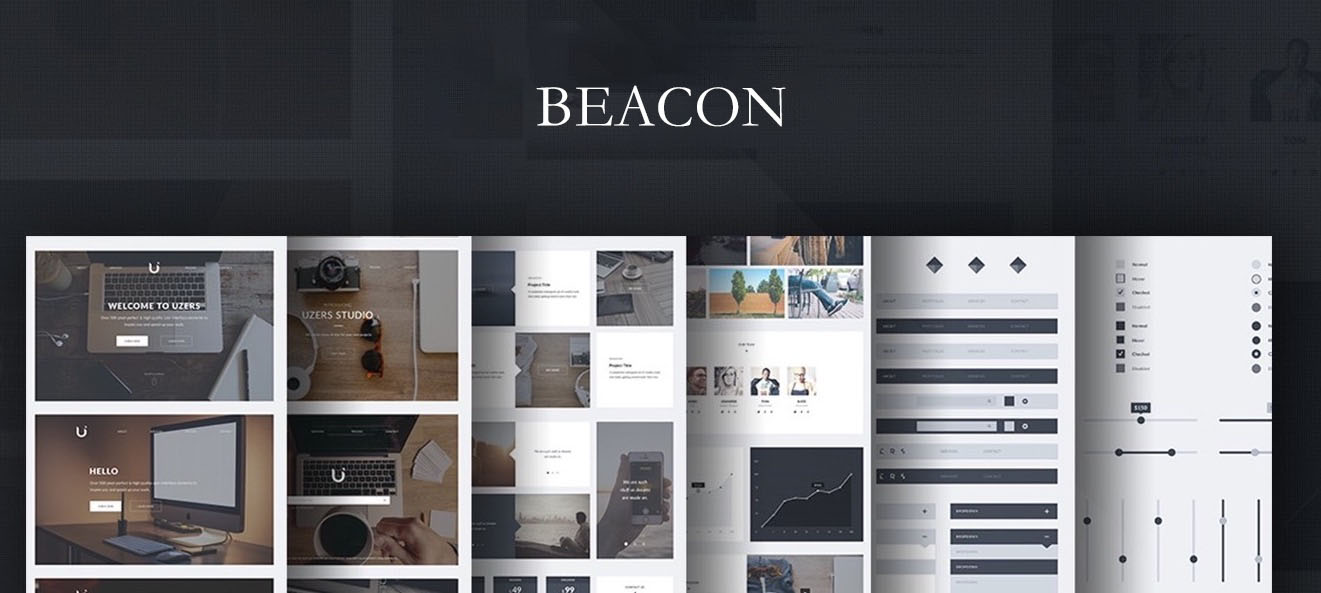
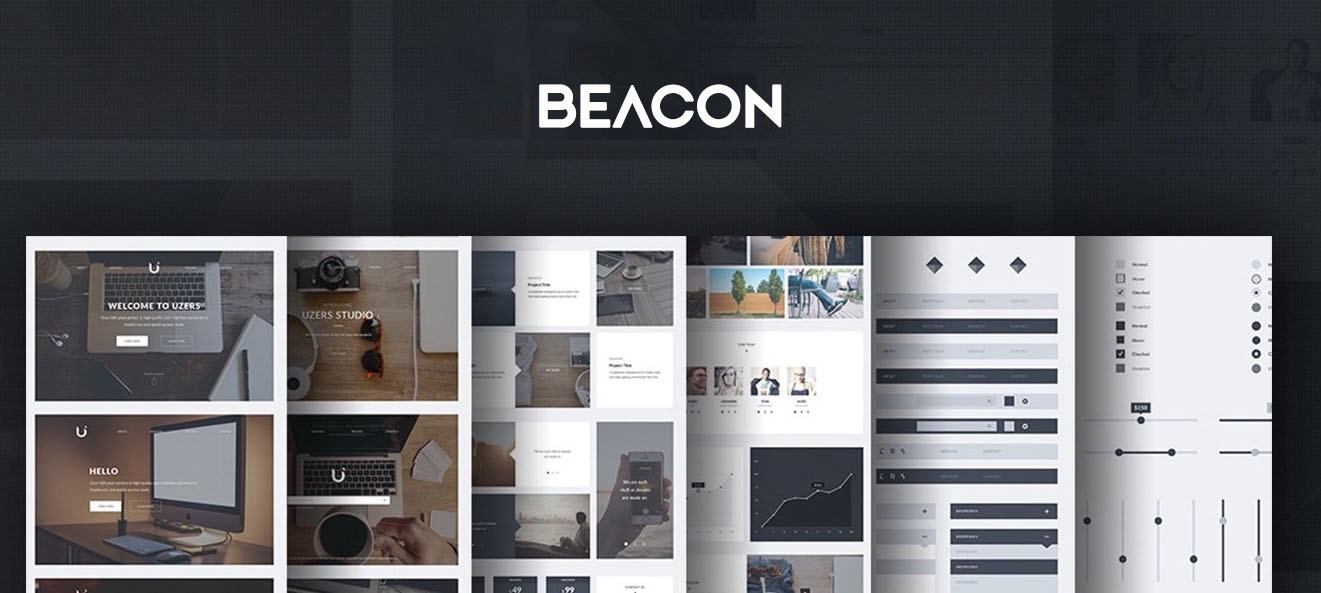
1
1

Changed region(s): [[0.4035, 0.1214, 0.5897, 0.2125]]

diff --git a/js/lang.js b/js/lang.js
@@ -43,7 +43,7 @@ const langCN = {
     //us
     'us_info_1': 'BEACON株式会社是日资公司。总公司位于东京都千代田区锻冶町1-3-1 VORT神田8楼，威海子公司位于山东省威海市经济开发区18-1香港路智慧大厦10F。',
     //'us_info_2': '2018年成立的我公司主要经营不动产、留学事业、IT业、酒店事业、海外（日本）医疗事业5个事业，拥有丰富的经验，从各行各业整合各种资源，能够为客户提供周到的服务。',
-    'us_info_2': '依托创始团队在计算机领域的多年经验以及在日本的丰富资源，BEACON在日本不动产、酒店与民宿托管运营、赴日留学、中日双领域的IT开发、赴日医疗美容及日本移民等领域均有深度耕耘。迄今为止，已经为上千组高净值客户提供了定制级的优质服务。',
+    'us_info_2': '',
 
 
     //study
@@ -190,8 +190,8 @@ const langCN = {
     'res_mag_t_item7': '专业的预算管理',
     'res_mag_c_item7': '本公司都会为投资者提供专业的预算管理服务，比如与房屋有关的的各种收支项目（比如水、电、煤气等）。除此之外，本公司也提供操作指示、缴纳通知、代理支付等服务。',
 
-    'res_content_sell': '自1968年以来，日本已经在全球GDP前三的位置上保持了50多年。同时，作为亚洲第一个发达国家，日本经济与社会的长期稳定，孕育出不动产租售比全球领先的东京、大阪以及名古屋都市圈。BEACON有日本不动产顾问团队，长期跟踪研究日本的土地、金融、人口、产业、城市再发展，定期研判不动产走势，从而前瞻性地分析出适合投资的不动产板块与类型。每一位海外客户在购置日本的不动产后，无需亲自参与管理，只需委托BEACON的托管团队即可轻松获得数倍于别国的房屋租金。同时，由于日本的土地性质为终身私有，客户亦可以获得较为可观的土地涨幅。',
-    'res_content_hire': '除自社物件之外，BEACON亦跟日本各大不动产开发及管理企业有深度合作。<br/ > 无论是为包含留学生在内的日本本土客户提供一整栋学生公寓，还是单身公寓、高级塔楼、一户建、商业用物件、物流及仓储用房的租赁，BEACON均可精准匹配需求。',
+    'res_content_sell': '',
+    'res_content_hire': '',
     'res_content_move': '治安指数良好、犯罪率极低、食品安全、空气质量佳、人均GDP近4万美元，迄今为止，日本仍是全亚洲人均收入最高的国家之一。移民日本，享受日本的教育与社会福利，是很多中产与新贵的人生进阶选择。',
     'res_content_move_more': 'BEACON移民团队已为数百个家庭定制移居日本之方案。从赴日工作，到子女入学；从赴日后的居住与生活，到整体的家庭资产配置......在BEACON的IT大数据算法与多位经济学专家顾问的私人定制式智囊协力下，移民日本坦途已为您铺就，全新生活亟待您的起航。',
     'res_content_hotel': '日本的服务业享誉全球，除投资类及租赁类不动产的托管之外，BEACON亦有酒店及民宿托管团队。',
@@ -209,9 +209,9 @@ const langCN = {
 
 
     //detail text
-    'detail_it': '依托经验丰富的IT开发团队，BEACON为客户提供完美的推广方式，使客户在任何经济形势下都有开拓生意的新可能。',
-    'detail_it_content': '在互联网、大数据、云计算等科技不断发展的背景下，依托经验丰富的IT开发团队，通过手机APP、微信/LINE小程序、网站开发制作等方式，以及对市场、对用户、对产品、对企业价值链乃至对整个商业生态的进行重新审视，BEACON为客户提供完美的推广方式，使客户在任何经济形势下都有开拓生意的新可能。',
-    'detail_hotel': '日本的服务业享誉全球，BEACON亦有酒店及民宿托管团队',
+    'detail_it': '',
+    'detail_it_content': '',
+    'detail_hotel': '',
     'detail_medic': '日本的医学与制药科技全球领先，BEACON与多家日本资深综合整形外科合作。<br /> 牵手经日本厚生省和美容外科协会认证、拥有超过20年经验美容整形外科的医师，为您定制高品质的综合抗衰老方案。',
     'detail_medic_shot': '医学顾问翻译团队,全方位的管家式顾问翻译支持。',
     'detail_medic_1_title': '赴日美容',
@@ -278,7 +278,7 @@ const langJP = {
 
 
     //us
-    'us_info_1': 'BEACON株式会社は日中合弁会社です。本社は東京都千代田区鍛冶町1-3-1 VORT神田8階にあり、威海支社は山東省威海市経済開発区18-1香港路智慧ビル10Fにあります。',
+    'us_info_1': 'BEACON株式会社は不動産会社です。本社は東京都千代田区鍛冶町1-3-1 VORT神田8階にあり、威海支社は山東省威海市経済開発区18-1香港路智慧ビル10Fにあります。',
     //'us_info_2': '2018年に設立された弊社は、不動産業、留学事業、IT業、ホテル事業、海外（日本）医療事業の5つの事業をおもに運営し、豊富な経験を持って各業界から多様なリソースを統合して、お客様に行き届いたサービスを提供しています。',
 
 
@@ -431,19 +431,19 @@ const langJP = {
     'medicine_business': '医療ツーリズム、介護業界へのビジネス調査',
 
     //detail text
-    'detail_it': '依托经验丰富的IT开发团队，BEACON为客户提供完美的推广方式，使客户在任何经济形势下都有开拓生意的新可能。',
-    'detail_it_content': '在互联网、大数据、云计算等科技不断发展的背景下，依托经验丰富的IT开发团队，通过手机APP、微信/LINE小程序、网站开发制作等方式，以及对市场、对用户、对产品、对企业价值链乃至对整个商业生态的进行重新审视，BEACON为客户提供完美的推广方式，使客户在任何经济形势下都有开拓生意的新可能。',
-    'detail_hotel': '日本的服务业享誉全球，BEACON亦有酒店及民宿托管团队',
+    'detail_it': '',
+    'detail_it_content': '',
+    'detail_hotel': '',
 
     'study_abroad_list1': '1868年的日本明治维新，开启并引领了整个东方的现代化进程。迄今为止，在科技制造、现代医学、设计与艺术、时尚与美食、新材料及精细化工等领域，日本一直领先世界。',
     'study_abroad_list2': '日本有28位诺贝尔奖得主，数量居亚洲第一。世界大学排名TOP500中，日本有16所。鲁迅、李大钊、周恩来、孙中山等先辈均曾赴日留学，并在其后做出了影响整个东方文明的成就。',
     'study_abroad_list3': '日本的教育质量领先，学费却相对低廉，任何中国的中产阶层均可以轻松承担。BEACON在日本与中国设立的留学部门，位赴日留学的学弟学妹们提供全流程保姆级服务，担学子潜心求学之依靠，令家长无后顾之忧。 <br /> 日本留学，我们更专业',
 
-    'us_info_2': '依托创始团队在计算机领域的多年经验以及在日本的丰富资源，BEACON在日本不动产、酒店与民宿托管运营、赴日留学、中日双领域的IT开发、赴日医疗美容及日本移民等领域均有深度耕耘。迄今为止，已经为上千组高净值客户提供了定制级的优质服务。',
+    'us_info_2': '',
 
 
-    'res_content_sell': '自1968年以来，日本已经在全球GDP前三的位置上保持了50多年。同时，作为亚洲第一个发达国家，日本经济与社会的长期稳定，孕育出不动产租售比全球领先的东京、大阪以及名古屋都市圈。BEACON有日本不动产顾问团队，长期跟踪研究日本的土地、金融、人口、产业、城市再发展，定期研判不动产走势，从而前瞻性地分析出适合投资的不动产板块与类型。每一位海外客户在购置日本的不动产后，无需亲自参与管理，只需委托BEACON的托管团队即可轻松获得数倍于别国的房屋租金。同时，由于日本的土地性质为终身私有，客户亦可以获得较为可观的土地涨幅。',
-    'res_content_hire': '除自社物件之外，BEACON亦跟日本各大不动产开发及管理企业有深度合作。<br/ > 无论是为包含留学生在内的日本本土客户提供一整栋学生公寓，还是单身公寓、高级塔楼、一户建、商业用物件、物流及仓储用房的租赁，BEACON均可精准匹配需求。',
+    'res_content_sell': '',
+    'res_content_hire': '',
     'res_content_move': '治安指数良好、犯罪率极低、食品安全、空气质量佳、人均GDP近4万美元，迄今为止，日本仍是全亚洲人均收入最高的国家之一。移民日本，享受日本的教育与社会福利，是很多中产与新贵的人生进阶选择。',
     'res_content_move_more': 'BEACON移民团队已为数百个家庭定制移居日本之方案。从赴日工作，到子女入学；从赴日后的居住与生活，到整体的家庭资产配置......在BEACON的IT大数据算法与多位经济学专家顾问的私人定制式智囊协力下，移民日本坦途已为您铺就，全新生活亟待您的起航。',
     'res_content_hotel': '日本的服务业享誉全球，除投资类及租赁类不动产的托管之外，BEACON亦有酒店及民宿托管团队。',

diff --git a/html/res.html b/html/res.html
@@ -53,7 +53,7 @@
                     <h1 lang="index_trade"></h1>
                 </div>
                 <div class="property-process">
-                    <img src="../images/img/res_process_0.png">
+                    <!-- <img src="../images/img/res_process_0.png"> -->
                 </div>
                 <div class="property-subject subject-one">
                     <h4 lang="res_content_sell" class="res-content"></h4>
@@ -99,7 +99,7 @@
         </div>
 
         <!-- 第四个屏幕 -->
-        <div class="section section-forth">
+        <!-- <div class="section section-forth">
             <div class="PROPERTY-forth PROPERTY">
                 <div class="property-title">
                     <h1 lang="index_migrate"></h1>
@@ -125,7 +125,7 @@
                     </div>
                 </div>
             </div>
-        </div>
+        </div> -->
 
 
         <div class="section section-root">
@@ -144,16 +144,19 @@
                         <p lang="res_rootlist_4"></p>
                     </div>
                     <div class="resRootList">
+                        <p lang="addr_japan_komagome" class="list_title "></p>
+                        <p lang="addr_japan_addr_komagome"></p>
+                        <a href="" class="tel_qiyu">
+                            <p lang="res_rootlist_3"></p>
+                        </a>
+                        <p lang="res_rootlist_4"></p>
+                    </div>
+                    <div class="resRootList">
                         <p lang="res_subslist" class="list_title "></p>
                         <p lang="res_subslist_1"></p>
                         <a href="" class="tel_qiyu">
                             <p lang="res_subslist_2"></p>
                         </a>
-                        <p lang="res_subslist_3"></p>
-                    </div>
-                    <div class="resRootList">
-                        <p lang="res_2subslist" class="list_title "></p>
-                        <p lang="res_2subslist_1"></p>
                         <!-- <a href="" class="tel_qiyu"><p lang="res_2subslist_2"></p></a> -->
                         <p lang="res_2subslist_3"></p>
                     </div>

diff --git a/html/hotel.html b/html/hotel.html
@@ -71,11 +71,11 @@
             <div class="slide" id="slide7">
                 <h1 lang="hotel_name"></h1>
             </div>
-            <div class="hotelboard boardbgB"></div>
+            <!-- <div class="hotelboard boardbgB"></div>
             <div class="hotelboard">
                 <h lang="res_head_hotel_2" class="title"></h>
                 <h4 lang="res_content_hotel"></h4>
-            </div>
+            </div> -->
         </div>
 
         <!-- 第二个屏幕 -->
@@ -90,11 +90,11 @@
             <div class="slide" id="slide3">
                 <h1 lang="hotel_name"></h1>
             </div>
-            <div class="hotelboard boardbgB hotel-adjust"></div>
+            <!-- <div class="hotelboard boardbgB hotel-adjust"></div>
             <div class="hotelboard hotel-adjust">
                 <h lang="res_head_hotel_2" class="title"></h>
                 <h4 lang="res_content_hotel"></h4>
-            </div>
+            </div> -->
         </div>
 
         <!-- 第三个屏幕 -->
@@ -115,22 +115,22 @@
             <div class="slide" id="slide5">
                 <h1 lang="hotel_name"></h1>
             </div>
-            <div class="hotelboard boardbgB hotel-adjust"></div>
+            <!-- <div class="hotelboard boardbgB hotel-adjust"></div>
             <div class="hotelboard hotel-adjust">
                 <h lang="res_head_hotel_2" class="title"></h>
                 <h4 lang="res_content_hotel"></h4>
-            </div>
+            </div> -->
         </div>
 
         <!-- 第四个屏幕 -->
         <div class="section" id="section-four">
             <h2 class="hotel-adjust">BEACON</h2>
             <h1 class="hotel-adjust" lang="hotel_name"></h1>
-            <div class="hotelboard summary boardbgU"></div>
+            <!-- <div class="hotelboard summary boardbgU"></div>
             <div class="hotelboard summary">
                 <h lang="res_head_hotel" class="title"></h>
                 <h4 lang="res_content_hotel_more"></h4>
-            </div>
+            </div> -->
         </div>
     </div>
     <script src="../js/lang.js"></script>

diff --git a/html/it.html b/html/it.html
@@ -50,11 +50,11 @@
         <!-- 第一个屏幕 -->
         <div class="section sectionIT" id="IT-one">
             <div class="it-center">
-                <div class="itboard boardbg"></div>
+                <!-- <div class="itboard boardbg"></div>
                 <div class="itboard">
                     <h2 lang="detail_it_title" class="title"></h2>
                     <h4 lang="detail_it_content"></h4>
-                </div>
+                </div> -->
             </div>
         </div>
 

diff --git a/html/study.html b/html/study.html
@@ -122,7 +122,7 @@
             </div>
         </div>
 
-        <div class="section section-three">
+        <!-- <div class="section section-three">
             <div class="STUDY-three STUDY">
                 <div class="study-title">
                     <h1 lang="study_abroad_jp"></h1>
@@ -157,7 +157,7 @@
                     </div>
                 </div>
             </div>
-        </div>
+        </div> -->
 
     </div>
     <script src="../js/lang.js"></script>

diff --git a/index.html b/index.html
@@ -120,9 +120,9 @@
                     <a lang="index_more" href="./html/study.html"></a>
                 </div>
             </div>
-            <div class="official" style="background-color:aqua">
+            <!-- <div class="official" style="background-color:aqua">
                 <img src="./images/img/weixin.png">
-            </div>
+            </div> -->
         </div>
 
         <!-- 第四个屏幕 -->

diff --git a/css/common.css b/css/common.css
@@ -79,14 +79,14 @@
     position: absolute;
     float: left;
     padding-top: 16px;
-    /* width: 1560px; */
-    height: 52px;
+    width: 106px;
+    height: 19px;
     box-sizing: border-box;
     display:flex;
 }
 .logo img {
     width: 100%;
-    height: 24px;
+    height: 19px;
 }
 .logo a {
     position: absolute;
